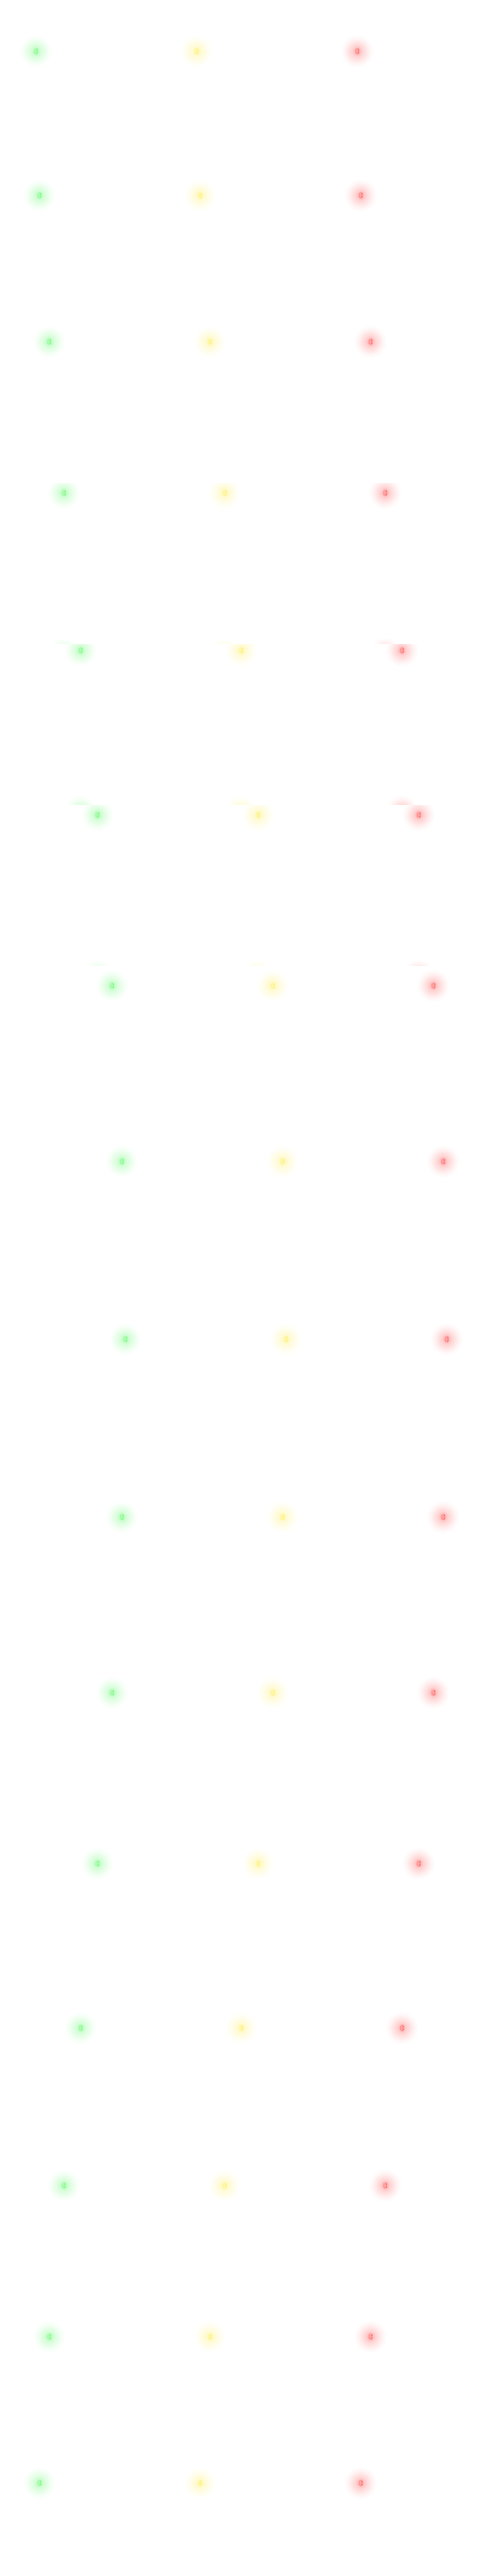
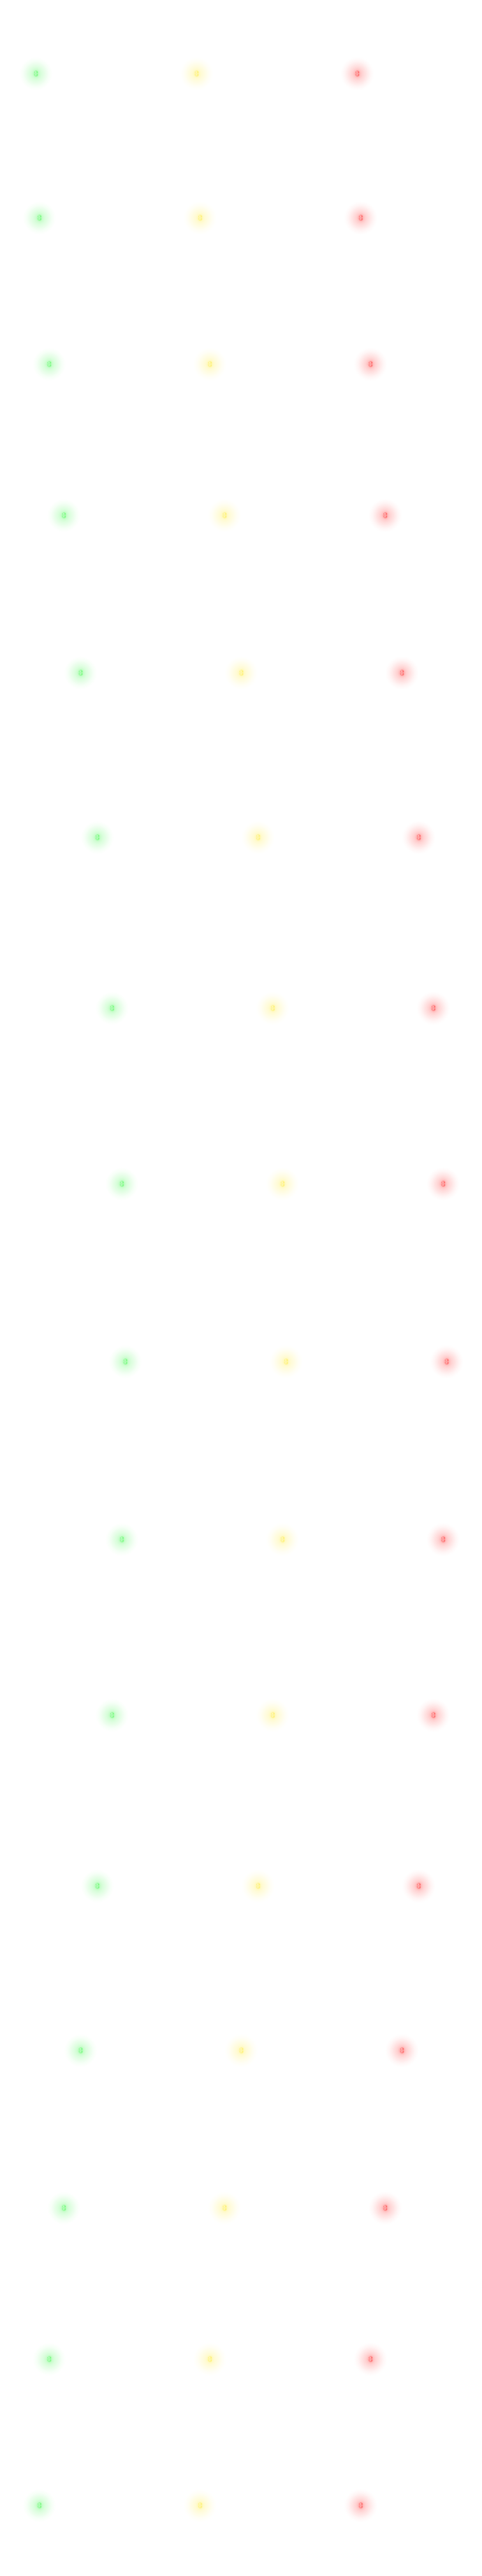
More buoy stuff
- Fixed rail signal buoy light sprite clipping vertically
- Started tweaking circuit connector locations.

diff --git a/cargo-ships-graphics/blender/buoy/buoy_shift_gen.py b/cargo-ships-graphics/blender/buoy/buoy_shift_gen.py
@@ -14,20 +14,22 @@ import math
 old_direction_number = 8
 
 
-filenames = [[r"hr-buoy-base.png", 64, -14],
-             [r"hr-buoy-lights.png", 64, -14],
-             [r"hr-buoy-shadow.png", 64, -14],
-             [r"buoy_water_reflection.png", 6.4, -1.4]]
+filenames = [#[r"hr-buoy-base.png", 64, -14],
+             [r"hr-buoy-lights.png", 64, -14, 32],
+             #[r"hr-buoy-shadow.png", 64, -14],
+             #[r"buoy_water_reflection.png", 6.4, -1.4]
+             ]
 
 for filename in filenames:
     OG_sheet = Image.open(filename[0])
     pixels_per_tile = filename[1]
     og_xshift = filename[2]
+    og_yshift = filename[3]
     
     
     width, height = OG_sheet.size
     sprite_size = height/old_direction_number  # because the original sprites have 8 rotations, but could have multiple frames on each line
-    OG_sprite = ImageChops.offset(OG_sheet.crop((0,0,width,sprite_size)), round(og_xshift), 0)
+    OG_sprite = ImageChops.offset(OG_sheet.crop((0,0,width,sprite_size)), round(og_xshift), round(og_yshift))
     #OG_sprite.save("test1.png")
     
     
